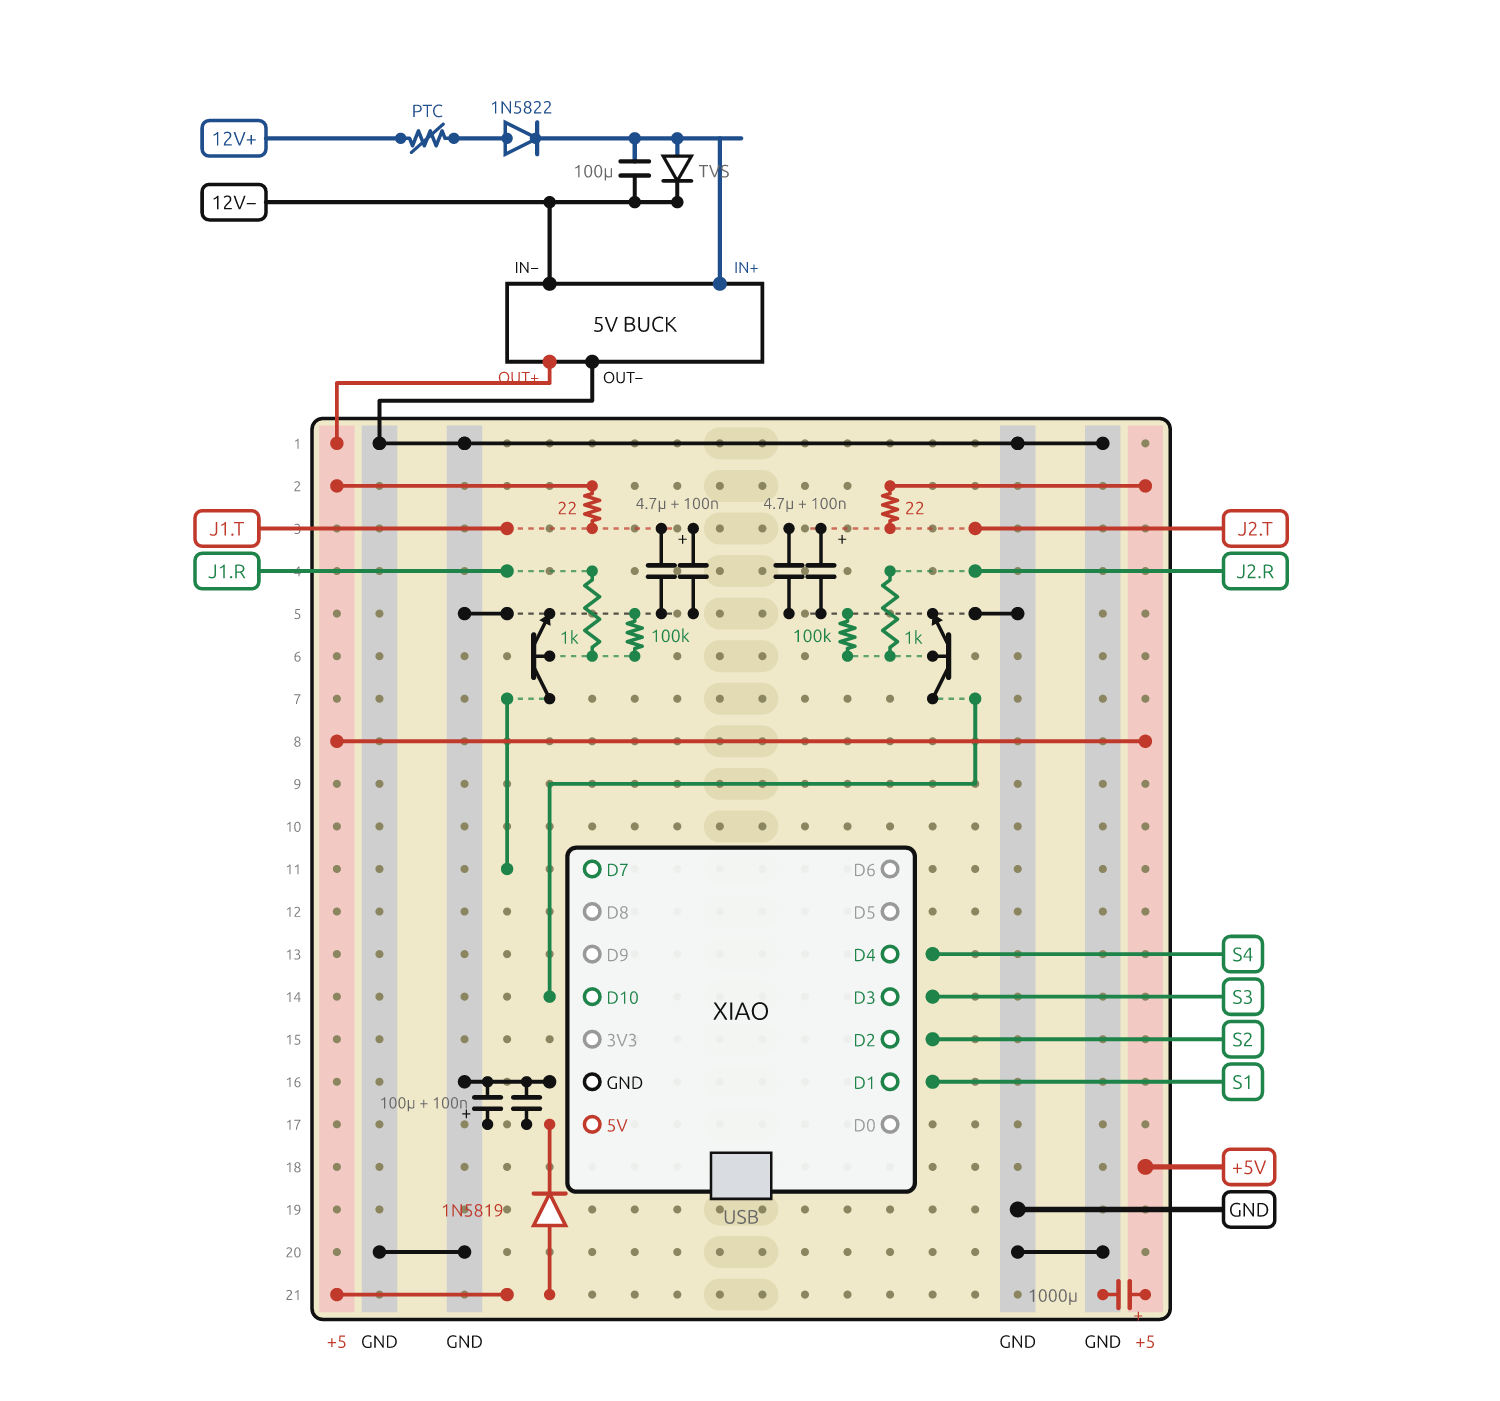
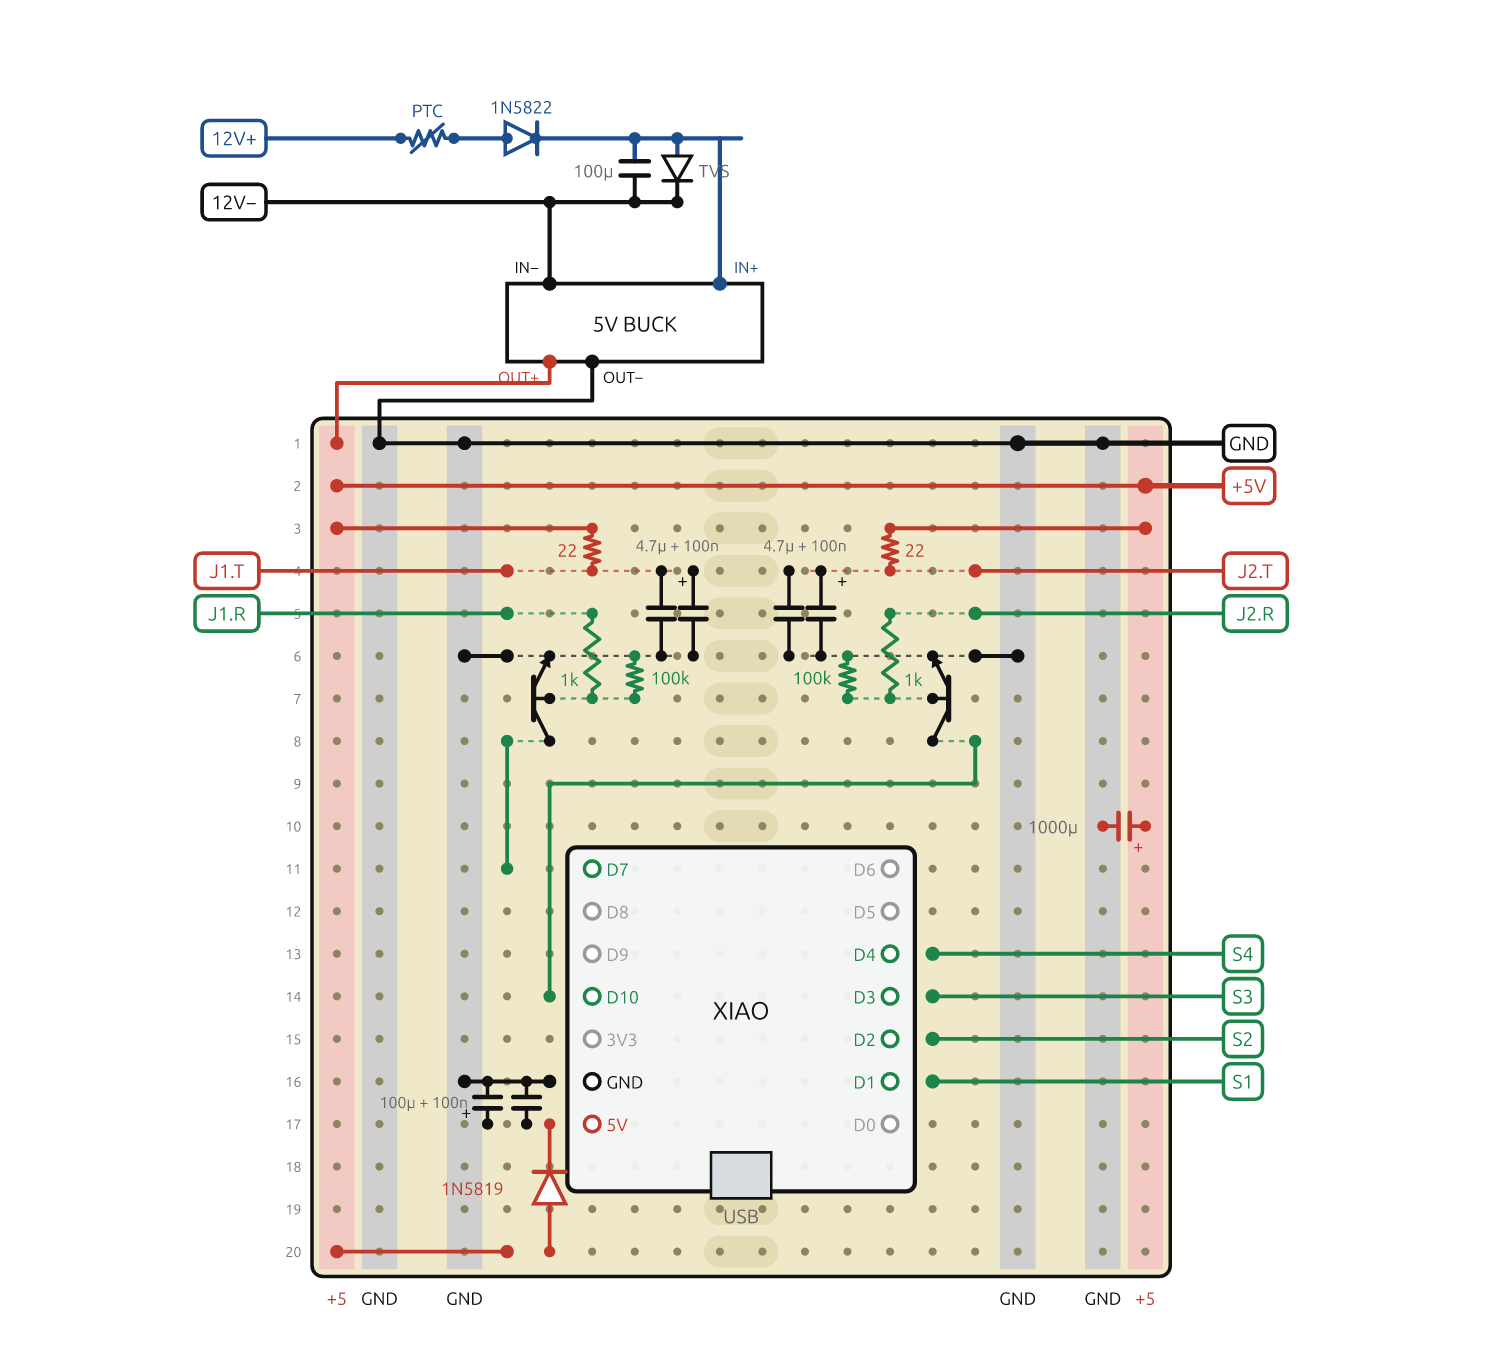
docs: both bus bridges across the top, sensor blocks one row down, board down to 20 rows

diff --git a/docs/08-servo-board.md b/docs/08-servo-board.md
@@ -181,12 +181,14 @@ rounded tag in the layout (`12V+`, `J1.T`, `S1`, `+5V` and so on) is a wire to t
 - **Every row is split into three islands: 5 holes | 2 holes | 5 holes.** The 2-hole island in the middle is its own
   net (drawn as a lighter pad in the layout). The XIAO's pins land one in each 5-hole island, so its body sits over the
   middle one.
-- About 30 rows along the strips. The layout needs **21**, so the board can be cut after row 21 (about 0.9" off the end)
+- About 30 rows along the strips. The layout needs **20**, so the board can be cut after row 20 (about 1" off the end)
   and the offcut used for the connector board. Cut through a gap in the copper, not along a strip.
 
 **How I used the strips (both sides, mirrored):** A = **+5 V**; B and C = **GND**, tied together with a short wire at
-row 1 and row 20 so the ground has two strips of copper, and so every ground connection has a strip right beside the
-holes. The 1000 µF sits across A and B, which are adjacent.
+row 1 so every ground connection has a strip right beside the holes. The 1000 µF sits across A and B, which are
+adjacent. **Both bus connections are across the top:** the GND bridge on row 1 and the +5 V bridge on row 2, and the
+`+5V` and `GND` tags to the connector board leave from those same rows. That means the heavy servo current never
+runs down the strips, so no ground jumper is needed near the XIAO.
 
 **Why the XIAO is turned so the USB end points at the bottom:** the four servo pins D1–D4 are on the right edge
 of the XIAO and the sensor pins D7 and D10 are on the left. The sensor circuit for D7 sits in the left island and the
@@ -195,7 +197,7 @@ short. Rotate the whole board 180° in the box if the USB end should face elsewh
 
 **XIAO position:** left pins in column 3 of the left island, right pins in column 3 of the right island (columns
 1–5 left, 6–7 middle, 8–12 right, so these are columns 3 and 10), rows 11–17. Columns 1–2 and 11–12 stay free beside
-the pins. The sensor blocks sit above it in rows 2–7.
+the pins. The sensor blocks sit above it in rows 3–8.
 
 | Rows | Left pin | Right pin |
 |---|---|---|
@@ -220,32 +222,35 @@ it on the buck's own bit of board or wire it point to point. Nothing from this c
 |---|---|---|
 | Buck OUT+ | left A, row 1 | |
 | Buck OUT− | left B, row 1 | |
-| B-to-C ground jumpers (4 short wires) | left B and C, rows 1 and 20 | right B and C, rows 1 and 20 |
+| B-to-C ground jumpers (2 short wires) | left B to left C, row 1 | right B to right C, row 1 |
 | Bridge GND (wire) | left C, row 1 | right C, row 1 |
-| Bridge +5 V (wire) | left A, row 8 | right A, row 8 |
-| 1000 µF 10 V+ (+ to A) | right A, row 21 | right B, row 21 |
+| Bridge +5 V (wire) | left A, row 2 | right A, row 2 |
+| 1000 µF 10 V+ (+ to A) | right A, row 10 | right B, row 10 |
+| Tag `GND` (20 AWG) | right C, row 1 | |
+| Tag `+5V` (20 AWG) | right A, row 2 | |
 
-Bridge the sides with wire, not just the strips: four stalled servos draw about 1.9 A.
+Bridge the sides with wire, not just the strips: four stalled servos draw about 1.9 A. The two 20 AWG tag wires
+take that current straight from the bridges, which is why nothing heavy runs down a strip.
 
-**Sensor circuits (two mirror-image blocks, rows 2–7).** The left block serves sensor 1 and goes to **D7**; the
+**Sensor circuits (two mirror-image blocks, rows 3–8).** The left block serves sensor 1 and goes to **D7**; the
 right block serves sensor 2 and goes to **D10**. Columns are counted from the block's own side: "k1" is the hole
-next to strip C, k5 the hole nearest the middle island. Rows: **2 feed, 3 tip, 4 ring, 5 GND, 6 base, 7 collector.**
+next to strip C, k5 the hole nearest the middle island. Rows: **3 feed, 4 tip, 5 ring, 6 GND, 7 base, 8 collector.**
 The dashed lines in the drawing are the copper that joins holes in a row, not wires. Nothing of the same
-colour crosses: the collector wire leaves downward from row 7, below the ring wire.
+colour crosses: the collector wire leaves downward from row 8, below the ring wire.
 
 | Part | From | To |
 |---|---|---|
-| +5 V feed wire | A, row 2 | row 2, k3 |
-| 22 Ω (stands vertically) | row 2, k3 | row 3, k3 |
-| 4.7 µF (+ to row 3) and 100 nF, side by side in the same two holes | row 3, k5 | row 5, k5 |
-| GND jumper | C, row 5 | row 5, k1 |
-| 2N3904 standing in k2 | emitter row 5, base row 6, collector row 7 | |
-| 1 kΩ (lies along the column, 0.2") | row 4, k3 | row 6, k3 |
-| 100 kΩ (stands vertically) | row 5, k4 | row 6, k4 |
-| Tag `J1.T` / `J2.T` | row 3, k1 | |
-| Tag `J1.R` / `J2.R` | row 4, k1 | |
-| Collector wire, left block (insulated, down column 1) | row 7, col 1 | left row 11, col 1 (beside **D7**) |
-| Collector wire, right block (insulated) | row 7, col 12, down to row 9, left along row 9 to left col 2, down to row 14 | left row 14, col 2 (beside **D10**) |
+| +5 V feed wire | A, row 3 | row 3, k3 |
+| 22 Ω (stands vertically) | row 3, k3 | row 4, k3 |
+| 4.7 µF (+ to row 4) and 100 nF, side by side in the same two holes | row 4, k5 | row 6, k5 |
+| GND jumper | C, row 6 | row 6, k1 |
+| 2N3904 standing in k2 | emitter row 6, base row 7, collector row 8 | |
+| 1 kΩ (lies along the column, 0.2") | row 5, k3 | row 7, k3 |
+| 100 kΩ (stands vertically) | row 6, k4 | row 7, k4 |
+| Tag `J1.T` / `J2.T` | row 4, k1 | |
+| Tag `J1.R` / `J2.R` | row 5, k1 | |
+| Collector wire, left block (insulated, down column 1) | row 8, col 1 | left row 11, col 1 (beside **D7**) |
+| Collector wire, right block (insulated) | row 8, col 12, down to row 9, left along row 9 to left col 2, down to row 14 | left row 14, col 2 (beside **D10**) |
 
 The sleeve of each jack has no wire on this board: it goes to GND on the connector board.
 
@@ -254,12 +259,10 @@ The sleeve of each jack has no wire on this board: it goes to GND on the connect
 | Part | From | To |
 |---|---|---|
 | GND jumper | left row 16, col 2 | left C, row 16 |
-| 1N5819 (band to the XIAO) | cathode left row 17, col 2 | anode left row 21, col 2 |
-| Anode jumper | left row 21, col 1 | left A, row 21 |
+| 1N5819 (band to the XIAO; bend the leads to 0.3") | cathode left row 17, col 2 | anode left row 20, col 2 |
+| Anode jumper | left row 20, col 1 | left A, row 20 |
 | 100 µF (+ to row 17) and 100 nF, side by side | left row 17, col 1 | left row 16, col 1 |
 | Tags `S1`, `S2`, `S3`, `S4` | right rows 16 / 15 / 14 / 13, col 11 | |
-| Tag `+5V` (20 AWG) | right A, row 18 | |
-| Tag `GND` (20 AWG) | right C, row 19 | |
 
 **Wires between the two boards (10 plus the 12 V pair).** `S1`–`S4`, `J1.T`, `J1.R`, `J2.T`, `J2.R`, and one
 `+5V` and one `GND` (20 AWG, they carry every servo's current). `12V+` and `12V−` go from the jack to the 12 V chain
